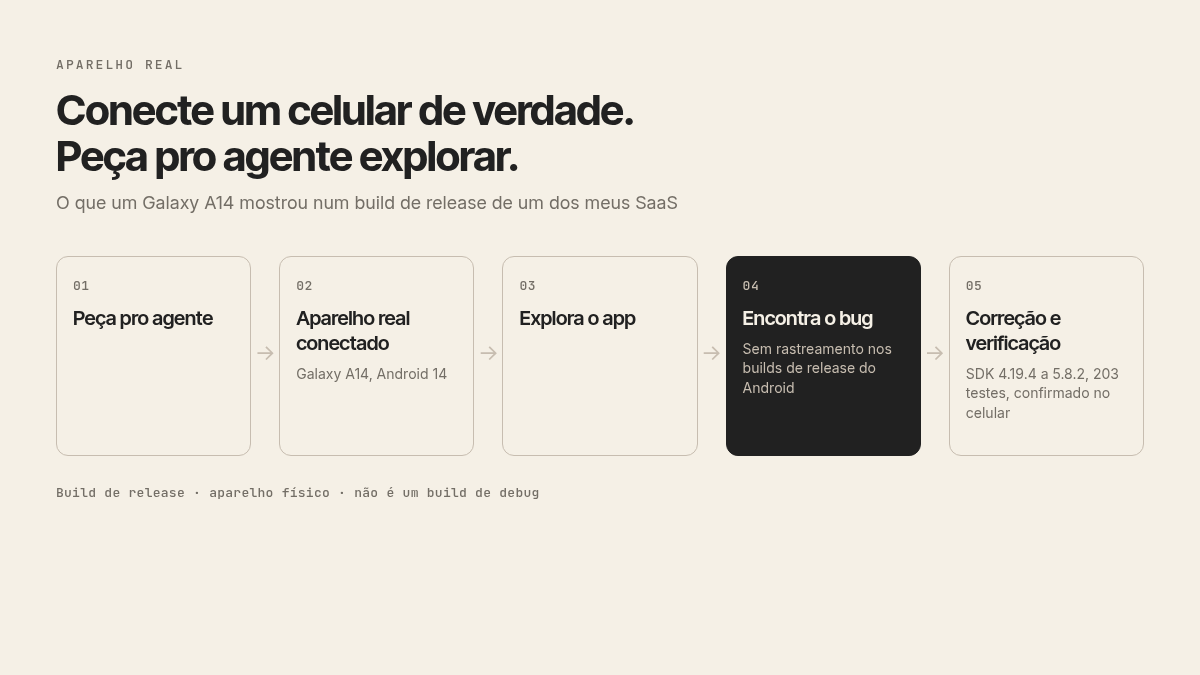
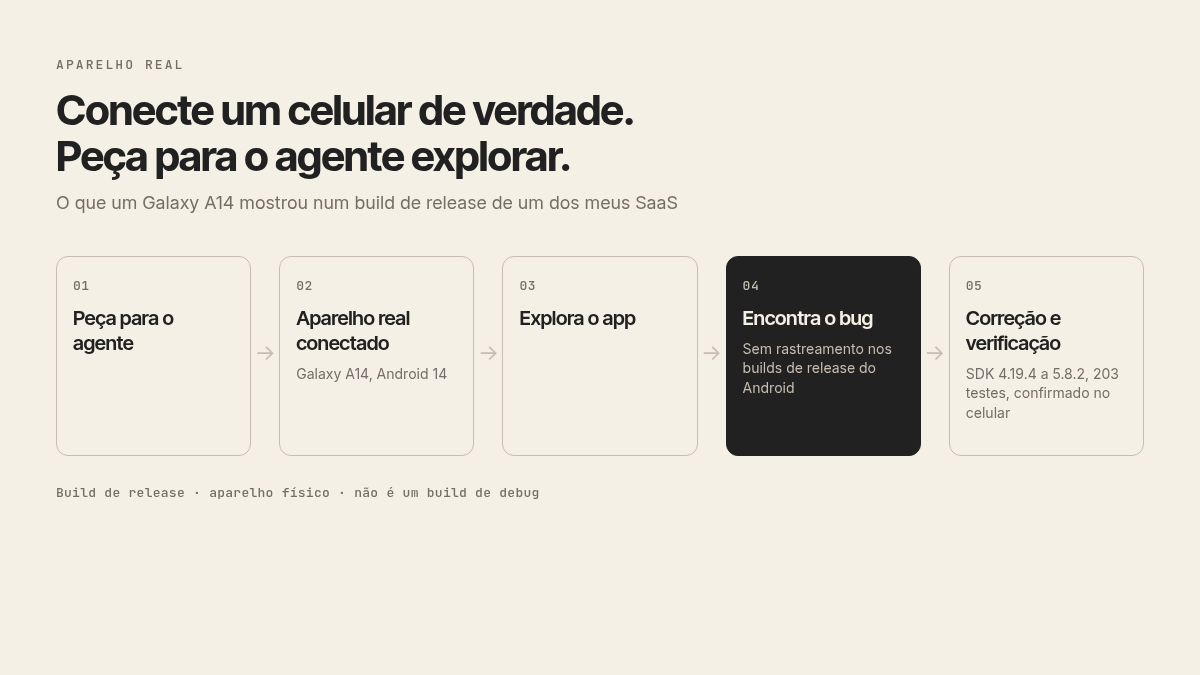
Fix PT diagram wording, add cover and og:image
Redo the Portuguese flow diagram ("Peça para o agente"), add a brand
cover used as og:image / twitter:image, and wire optional cover
frontmatter through the essay loader and page head.

Changed region(s): [[0.1542, 0.2178, 0.4933, 0.28], [0.0617, 0.4667, 0.185, 0.5289]]

diff --git a/pages/ensaios/[slug].tsx b/pages/ensaios/[slug].tsx
@@ -79,6 +79,9 @@ const ReadIssue = ({ issue, prev, next, altSlug }: ReadIssueProps) => {
         <meta property='og:title' content={issue.title} />
         <meta property='og:description' content={issue.excerpt} />
         <meta property='og:url' content={selfUrl} />
+        {issue.cover && <meta property='og:image' content={`https://tuliofaria.dev${issue.cover}`} />}
+        {issue.cover && <meta name='twitter:card' content='summary_large_image' />}
+        {issue.cover && <meta name='twitter:image' content={`https://tuliofaria.dev${issue.cover}`} />}
       </Head>
       <Link href={essaysPath(locale)} className='kit-navlink'
         style={{ fontFamily: 'var(--font-mono)', fontSize: 13, color: 'var(--text-secondary)', letterSpacing: '0.04em' }}>

diff --git a/lib/ensaios.ts b/lib/ensaios.ts
@@ -25,6 +25,8 @@ export interface IssueMeta {
   read: string
   // English files only: slug of the Portuguese original (frontmatter `ptSlug`).
   ptSlug?: string
+  // Optional site-relative image path (frontmatter `cover`), used as og:image / twitter:image.
+  cover?: string
 }
 
 export interface Issue extends IssueMeta {
@@ -54,6 +56,7 @@ function readIssues(locale?: string): Issue[] {
         tags: (data.tags || []) as string[],
         date: data.date as string,
         read: data.read as string,
+        ...(data.cover ? { cover: String(data.cover) } : {}),
         content: content.trim(),
       }
     })

diff --git a/content/ensaios/en/connect-a-real-device.md b/content/ensaios/en/connect-a-real-device.md
@@ -9,6 +9,7 @@ tags:
   - tools
 date: Nov 15, 2026
 read: 6 min
+cover: /images/ensaios/aparelho-real-capa.png
 ---
 
 I connected a real Galaxy A14, running Android 14, and asked the agent to explore the mobile app of one of my SaaS products.

diff --git a/content/ensaios/conecte-um-aparelho-real.md b/content/ensaios/conecte-um-aparelho-real.md
@@ -8,6 +8,7 @@ tags:
   - ferramentas
 date: 15 nov 2026
 read: 6 min
+cover: /images/ensaios/aparelho-real-capa.png
 ---
 
 Conectei um Galaxy A14 de verdade, com Android 14, e pedi para o agente explorar o app mobile de um dos meus SaaS.
